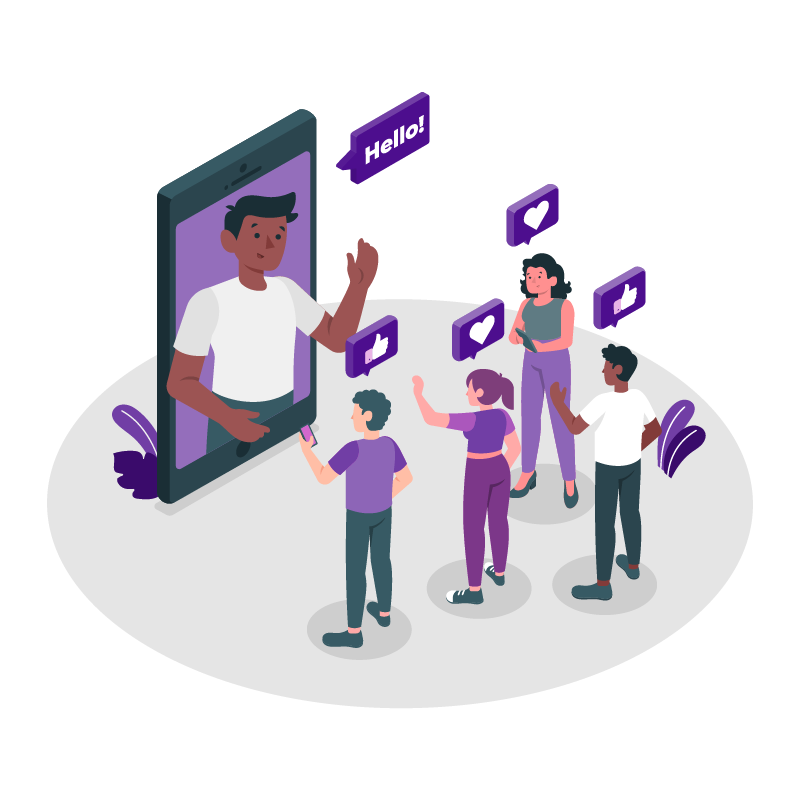
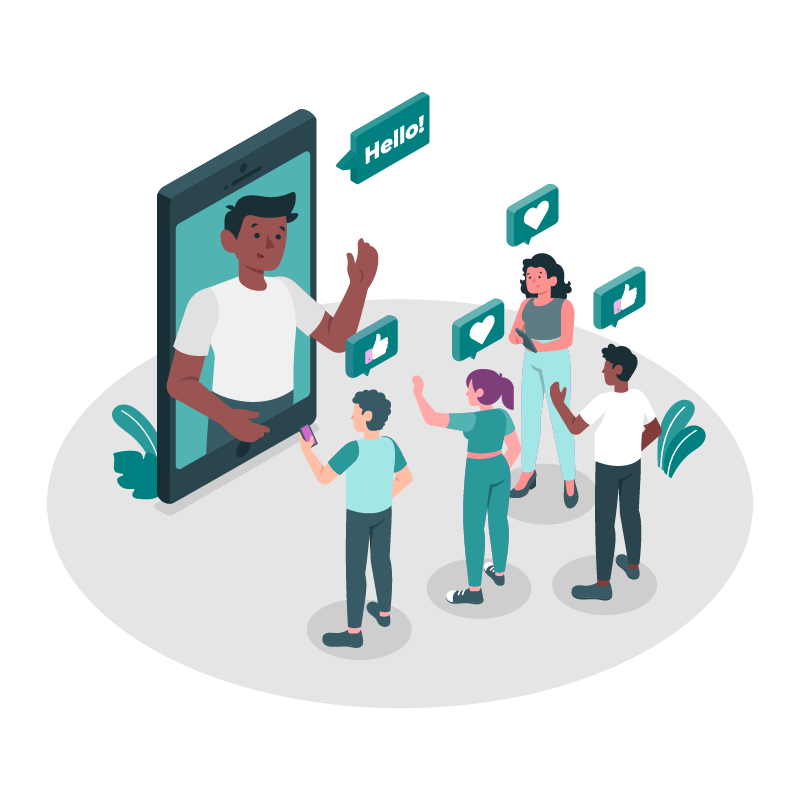
Commit For See Web Page

diff --git a/index.html b/index.html
@@ -46,24 +46,22 @@
 
    <!-- HOW WE WORK? -->
    <div class="how-we-work">
-      <div class="flex-container">
-         <div class="card">
-            <img src="img/irina-iriser-tPhfHSEeGaI-unsplash.jpg" alt="">
-            <h3>CREATING CAMPAIGN</h3>
-            <p>Initially you can approach by sharing your brand objectives and desired results with us. Contact our influencer base for content creation, social media shout-outs, product reviews, Movie reviews, Movie promotions, Sampling and much more.</p>
-         </div>
+      <div class="card">
+         <img src="img/irina-iriser-tPhfHSEeGaI-unsplash.jpg" alt="">
+         <h3>CREATING CAMPAIGN</h3>
+         <p>Initially you can approach by sharing your brand objectives and desired results with us. Contact our influencer base for content creation, social media shout-outs, product reviews, Movie reviews, Movie promotions, Sampling and much more.</p>
+      </div>
 
-         <div class="card">
-            <img src="img/irina-iriser-tPhfHSEeGaI-unsplash.jpg" alt="">
-            <h3>DISCOVER INFLUENCERS</h3>
-            <p>We will support you in finding the right influencers and to activate the campaign though them. Influencers will work by accepting the campaign brief, or by sending bids on how best they can contribute to it.</p>
-         </div>
+      <div class="card">
+         <img src="img/irina-iriser-tPhfHSEeGaI-unsplash.jpg" alt="">
+         <h3>DISCOVER INFLUENCERS</h3>
+         <p>We will support you in finding the right influencers and to activate the campaign though them. Influencers will work by accepting the campaign brief, or by sending bids on how best they can contribute to it.</p>
+      </div>
 
-         <div class="card">
-            <img src="img/irina-iriser-tPhfHSEeGaI-unsplash.jpg" alt="">
-            <h3>ENJOY THE INFLUENCE</h3>
-            <p>Creators will bear your tasks and share your brand story with their peers and followers by maximizing the views, engagement, conversations etc. Tadaa... you just accomplished your goal in the most cost-efficient way!</p>
-         </div>
+      <div class="card">
+         <img src="img/irina-iriser-tPhfHSEeGaI-unsplash.jpg" alt="">
+         <h3>ENJOY THE INFLUENCE</h3>
+         <p>Creators will bear your tasks and share your brand story with their peers and followers by maximizing the views, engagement, conversations etc. Tadaa... you just accomplished your goal in the most cost-efficient way!</p>
       </div>
    </div>
 </body>

diff --git a/style.css b/style.css
@@ -39,7 +39,8 @@ body{
    height: max-content;
    padding: 25px 70px;
    transition: all 0.3s ease;
-   background-color: aqua;
+   background-color: #008080;
+   color: #fff;
    margin-left: -70px;
 }
 /* .navbar.sticky{
@@ -65,10 +66,11 @@ body{
    padding: 14px 9px 6px 9px;
    border-radius: 5px;
    transition: ease 0.25s all;
+   fill: #fff;
 }
 .navbar .menu-ico li a:hover{
-   background-color: lightseagreen;
-   fill: #fff;
+   background-color: #CCFFFF;
+   fill: #008080;
 }
 .navbar #menu{
    margin: auto;
@@ -79,7 +81,7 @@ body{
    display: inline;
 }
 .navbar #menu li .menu-list-btn{
-   color: #000;
+   color: #fff;
    font-size: 16px;
    font-weight: 600;
    text-transform: uppercase;
@@ -93,7 +95,7 @@ body{
    transition: all .5s;
 }
 .navbar #menu li .menu-list-btn:hover {
-   color: black;
+   /* color: black; */
 }
 .navbar.stroke #menu li .menu-list-btn{
    position: relative;
@@ -107,7 +109,7 @@ body{
    width: 0%;
    content: '.';
    color: transparent;
-   background: lightseagreen;
+   background: #CCFFFF;
    height: 1px;
 }
 .navbar.stroke #menu li .menu-list-btn:hover:after {
@@ -166,8 +168,8 @@ body{
    border-radius: 7px;
    display: inline-block;
    transition: all 0.8s, color 0.3s 0.3s;
-   background: lightseagreen;
-   color: rgb(3, 43, 36);
+   background: #7ACCCC;
+   color: #000;
 }
 .home .home-content div a:hover{
    color: #fff;
@@ -177,37 +179,33 @@ body{
 /* HOW WE WORK? */
 .how-we-work{
    width: 100%;
-   height: max-content;
+   height: 100%;
    position: absolute;
-   margin-top: 650px;
+   margin-top: 550px;
+   display: flex;
+   float: left;
+   align-items: center;
 }
-.box-model{
-   border: 5px solid blueviolet;
-   padding: 20px;
-   margin: 20px;
-   display: none;
-}
-.card{
+.how-we-work .card{
    box-shadow: 0 0 10px lightgray;
-   width: 20%;
+   background-color: #CCFFFF;
+   width: 25%;
+   height: 450px;
    line-height: 20px;
-   padding: 20px;
-   margin: 8px;
+   padding: 40px;
+   margin-left: 50px;
    border-radius: 16px;
    text-align: center;
    
 }
-.card img{
+.how-we-work .card img{
    width: 100%;
-   height: 100%;
    border-radius: 16px;
-   display: block;
 }
-.card h3{
+.how-we-work .card h3{
    font-family: 'Montserrat', sans-serif;
    margin-top: 30px;
-   display: block;
 }
-.card p{
+.how-we-work .card p{
    margin-top: 10px;
 }
